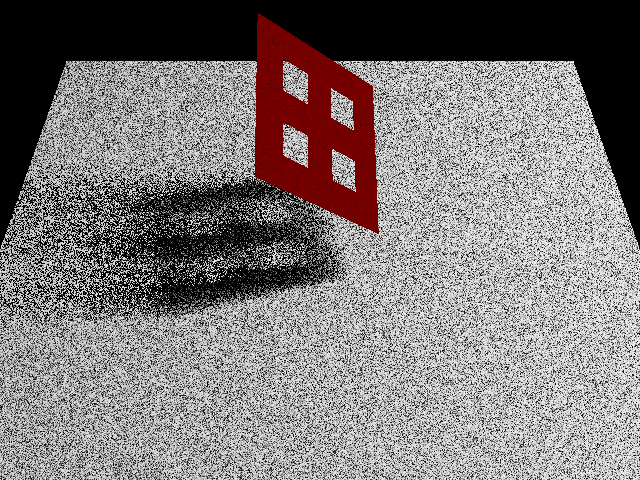
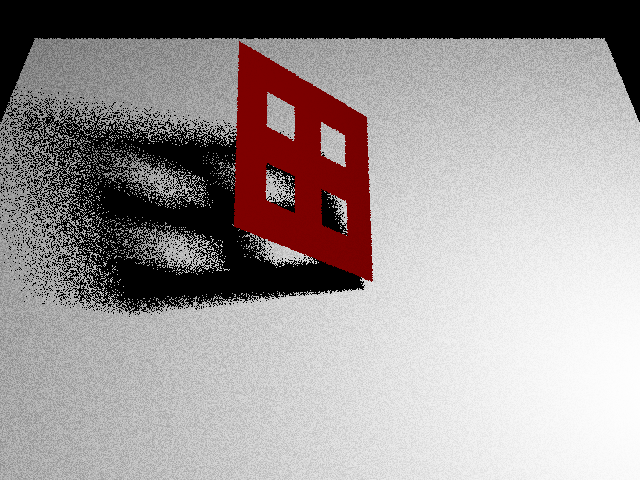
ensure that light is a rectangle

diff --git a/tutorials/minimal/minimal.cpp b/tutorials/minimal/minimal.cpp
@@ -155,7 +155,7 @@ Vec3f castRay(RTCScene scene, vector<ObjMesh> objects, Light light, RTCRay rtcRa
     int sspp = 1;
     for (int i = 0; i < sspp; ++i) {
       Vec3f light_sample = light.samplePoint();
-      RTCRay shadow_ray = createRay(hit_point, light_sample - hit_point, 0.01);
+      RTCRay shadow_ray = createRay(hit_point, light_sample - hit_point, 0.01, numeric_limits<float>::infinity());
       rtcOccluded1(scene, &context, &shadow_ray);
       // if hit is not found, that means the surface is not occluded from light source
       if (shadow_ray.tfar >= 0) {
@@ -171,8 +171,11 @@ RTCRay rayThroughPixel(int i, int j, Camera camera) {
   RTCRay ray;
   setOrigin(ray, camera.eye);
   float aspectRatio = camera.width/camera.height;
-  float alpha = aspectRatio * tan(camera.fovy/2)*(j + 0.5 - camera.width/2)/(camera.width/2);
-  float beta = tan(camera.fovy/2)*(i + 0.5 - camera.height/2)/(camera.height/2);
+
+  float jrand = genRandomFloat(), irand = genRandomFloat();
+
+  float alpha = aspectRatio * tan(camera.fovy/2)*(j + jrand - camera.width/2)/(camera.width/2);
+  float beta = tan(camera.fovy/2)*(i + irand - camera.height/2)/(camera.height/2);
   setDir(ray, normalize(alpha*camera.u + beta*camera.v - camera.w));
   return ray;
 }
@@ -203,6 +206,8 @@ int main()
   for (int i = 0; i < h; ++i) {
     for (int j = 0; j < w; ++j) {
       RTCRay incray = rayThroughPixel(i, j, camera);
+
+      // shoot multiple rays for anti-aliasing
       Vec3f color = castRay(scene, objects, light, incray);
       color = scaleColor(reverse(color));
 

diff --git a/tutorials/minimal/helper.h b/tutorials/minimal/helper.h
@@ -14,6 +14,8 @@
 
 float genRandomFloat();
 
+
+
 class Vec3f {
   public:
     float x,y,z;
@@ -42,6 +44,10 @@ class Vec3f {
       return std::to_string(this->x) + " " + std::to_string(this->y) + " " + std::to_string(this->z);
     }
 };
+
+float getMaxVal(Vec3f vec);
+
+float getMinVal(Vec3f vec);
 
 Vec3f operator*(Vec3f vec, const float val);
 

diff --git a/tutorials/minimal/helper.cpp b/tutorials/minimal/helper.cpp
@@ -10,6 +10,14 @@ float genRandomFloat() {
   return dis(e);
 }
 
+float getMaxVal(Vec3f vec) {
+  return std::max(vec.x, std::max(vec.y, vec.z));
+}
+
+float getMinVal(Vec3f vec) {
+  return std::min(vec.x, std::min(vec.y, vec.z));
+}
+
 Vec3f Vec3f::operator+(const Vec3f& vec) {
   Vec3f ans;
   ans.x = this->x + vec.x;
